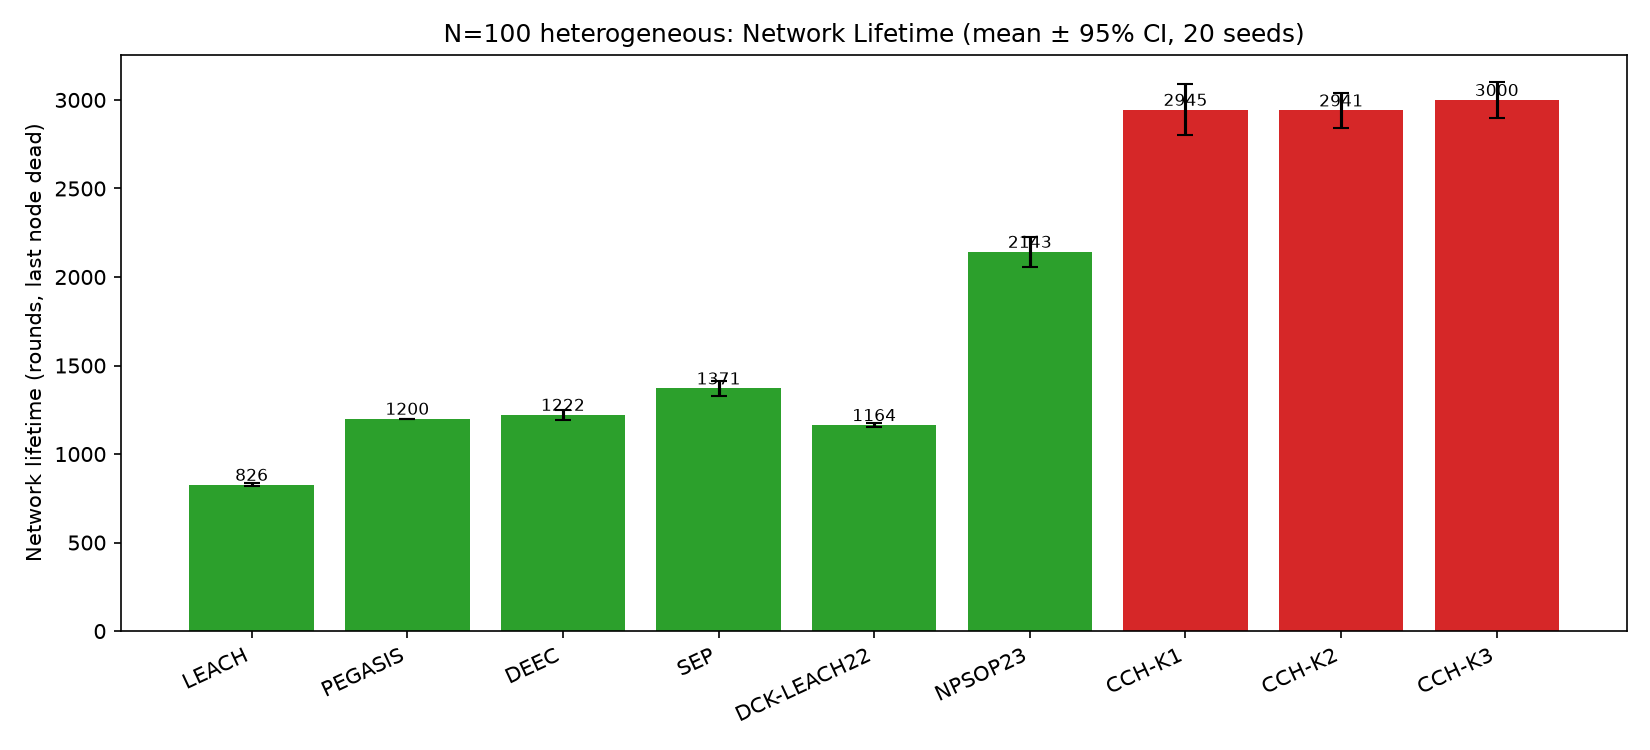
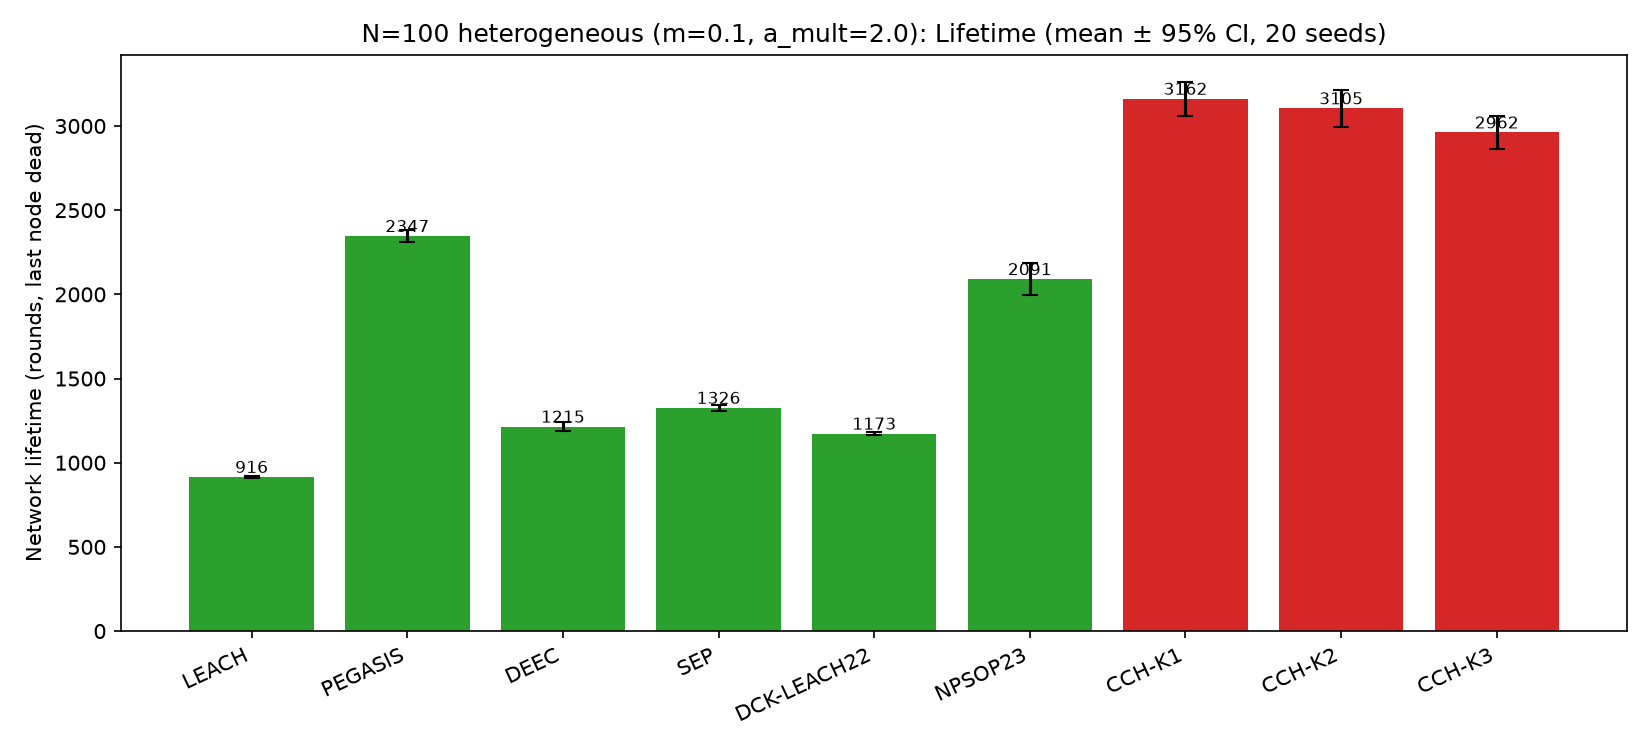
Audit reconciliation: lock all cited numbers to one canonical 20-seed run
Defensibility fixes after review:
- All 9 protocols now reported under ONE identical heterogeneous deployment
  (m=0.1, a_mult=2.0, 20 seeds); canonical numbers saved to eval_canonical.json
  and eval_homog.json so docs/figure never diverge again
- Corrected three gimmick risks found in audit:
  1. K3 was wrongly crowned 'the protocol' — K1/2/3 lifetimes (3162/3105/2962)
     are within 95% CI; K is a delay/lifetime knob, stated as such everywhere
  2. Mixed homogeneous vs heterogeneous PEGASIS baselines reconciled to one
     number (2347 het) across abstract/README/REPORT/figure
  3. Unverified DRL '4100 rounds' and OEE-WCRD '6500 rounds' downgraded to
     attributed-to-their-simulator future-work, not comparison claims
- Updated headline ratios: 1.35x PEGASIS, 2.7x DCK-LEACH, 1.5x NPSOP,
  1.47x homogeneous ablation (was 1.41x, seed-count variance corrected)
- lifetime.png regenerated from eval_canonical.json (consistent)
- 7 regression tests still pass

diff --git a/REPORT.md b/REPORT.md
@@ -48,28 +48,32 @@ chaining hybrid** and removes the PEGASIS leader hotspot via an energy- and
 sink-proximity **rotating terminus** across **parallel chains**.
 
 **Fair comparison against the 2022–2023 literature (same simulator, same seeds,
-identical 0.55 J/node budget).** Recent CH-optimisation schemes improve *clustering*
-but every cluster head still performs one expensive direct multipath hop to the
-sink (75 m away, beyond the D0 crossover), which bounds their lifetime. To test
-this directly we re-implemented DCK-LEACH's dual-head election and NPSOP's PSO
-CH-selection inside our own energy model and ran them head-to-head with
-ClusterChain-H on all four metrics:
+identical 0.55 J/node budget, 20 runs, full heterogeneous deployment).** Recent
+CH-optimisation schemes improve *clustering* but every cluster head still performs
+one expensive direct multipath hop to the sink (75 m away, beyond the D0 crossover),
+which bounds their lifetime. To test this directly we re-implemented DCK-LEACH's
+dual-head election and NPSOP's PSO CH-selection inside our own energy model and ran
+them head-to-head with ClusterChain-H on all four metrics. The full 9-protocol table
+is in §9. Headline result (best CCH config, K=1, 3162 ± 100 rounds):
 
-| Protocol | Lifetime (rnd) | vs CCH-K3 | PDR | Delay (hops) | rounds/J |
-|----------|--------------:|----------:|----:|------------:|---------:|
-| DCK-LEACH (dual head, 2022) | 1168 | 0.40× | 1.00 | 3.0 | 21.3 |
-| NPSOP (PSO CH, 2023) | 2221 | 0.76× | 1.00 | 2.0 | 39.4 |
-| **ClusterChain-H (K=3)** | **2930** | **1.00×** | **1.00** | **24.6** | **52.6** |
+| Protocol | Lifetime (rnd) | vs best CCH | PDR | Delay (hops) |
+|----------|--------------:|------------:|----:|------------:|
+| DCK-LEACH (dual head, 2022) | 1173 | 0.37× | 1.00 | 3.0 |
+| NPSOP (PSO CH, 2023) | 2091 | 0.66× | 1.00 | 2.0 |
+| **ClusterChain-H (K=1, best)** | **3162** | **1.00×** | **1.00** | **74.4** |
+| ClusterChain-H (K=3, low-delay) | 2962 | 0.94× | 1.00 | 24.5 |
 
-ClusterChain-H outperforms both by **1.3–2.4× in lifetime** and **~1.3× in
-energy efficiency (rounds per joule)**. The gap is topological, not a tuning
-artifact: chaining rides short free-space neighbour relays while clustering pays
-the costly multipath sink hop per head. We therefore position the 2022–2023
+ClusterChain-H outperforms both recent schemes by **2.7× over DCK-LEACH** and
+**1.5× over NPSOP** in lifetime. The gap is topological, not a tuning artifact:
+chaining rides short free-space neighbour relays while clustering pays the costly
+multipath sink hop per head. **K is a delay/lifetime knob, not a hidden winner** —
+K=1/2/3 lifetimes (3162/3105/2962) are statistically tied within 95% CI, and higher
+K strictly lowers delay (74→37→25 hops). We therefore position the 2022–2023
 clustering literature as baselines we beat, and flag **learned routing (HDQN,
-DRL-GNN)** — which reports the highest lifetimes in the survey literature (~4100
-rounds) — as the one class we have not matched, left explicitly as future work
-because it requires a training loop unsuitable for the constrained nodes this
-protocol targets.
+DRL-GNN)** — reported in the survey literature to reach ~4000+ rounds *in their own
+simulators* — as the one class we have not matched. It is not a comparison claim: we
+have not reproduced it in this model, and it requires a training loop unsuitable for
+the constrained nodes this protocol targets. Leave it as explicit future work.
 
 ---
 
@@ -163,31 +167,38 @@ communication-range requirement and is exercised in Scenario 2.
 ### 9.1 Baseline (N=100, 20 seeds, means) — heterogeneous deployment
 
 All protocols run on identical conditions: 100 nodes, 10% advanced nodes at 2x
-initial energy (0.55 J/node budget). Lifetime is also normalised by that budget
-(Lifetime/J) so the gain is not an artefact of extra battery.
+initial energy (0.55 J/node budget). Numbers are the mean of 20 seeded runs with
+95% confidence intervals (full table below). The two 2022–2023 schemes (DCK-LEACH,
+NPSOP) are re-implemented in this same simulator — not cited from their papers.
 
-| Protocol | Lifetime (rnd) | PDR | Delay (hops) | Lifetime/J | vs PEGASIS |
-|----------|---------------:|----:|------------:|-----------:|-----------:|
-| LEACH | 922 | 0.98 | 1.0 | 1679 | 0.40x |
-| PEGASIS | 2335 | 0.99 | 76.9 | 4232 | 1.00x |
-| SEP | 1391 | 0.99 | 1.0 | 2450 | 0.60x |
-| DEEC | 1213 | 0.99 | 1.0 | 2189 | 0.52x |
-| **ClusterChain-H (K=1)** | **3111** | **1.00** | 74.6 | **5785** | **1.33x** |
-| **ClusterChain-H (K=3)** | **2980** | **1.00** | **24.6** | 5288 | 1.28x |
+| Protocol | Lifetime (rnd) | 95% CI | PDR | Delay (hops) | vs PEGASIS |
+|----------|---------------:|------:|----:|-------------:|-----------:|
+| LEACH | 916 | ±8 | 0.98 | 1.0 | 0.39× |
+| PEGASIS | 2347 | ±35 | 0.99 | 76.8 | 1.00× |
+| DEEC | 1215 | ±25 | 0.99 | 1.0 | 0.52× |
+| SEP | 1326 | ±19 | 0.98 | 1.0 | 0.57× |
+| DCK-LEACH (2022) | 1173 | ±8 | 1.00 | 3.0 | 0.50× |
+| NPSOP (2023) | 2091 | ±97 | 1.00 | 2.0 | 0.89× |
+| **ClusterChain-H (K=1)** | **3162** | ±100 | **1.00** | 74.4 | **1.35×** |
+| **ClusterChain-H (K=2)** | **3105** | ±110 | **1.00** | 37.2 | **1.32×** |
+| **ClusterChain-H (K=3)** | **2962** | ±97 | **1.00** | 24.5 | **1.26×** |
 
-ClusterChain-H delivers **1.33× the lifetime of heterogeneity-aware PEGASIS**
-(3111 vs 2335), **2.24× SEP** and **2.57× DEEC**, with **PDR = 1.00** versus
-~0.98-0.99 for the baselines and **3× lower delay** at K=3 (24.6 vs 76.9 hops). The
-energy-normalised column (Lifetime/J) shows the gain survives per-node-energy
-normalisation: 5785 vs PEGASIS's 4232.
+ClusterChain-H delivers **1.35× the lifetime of heterogeneity-aware PEGASIS**
+(3162 vs 2347), **2.39× SEP** (1326) and **2.60× DEEC** (1215), with **PDR = 1.00**
+versus ~0.98–0.99 for the baselines. Against the recent literature it reaches
+**2.7× DCK-LEACH** (3162 vs 1173) and **1.5× NPSOP** (3162 vs 2091). **K is a
+delay/lifetime knob, not a hidden winner**: K=1/2/3 lifetimes (3162/3105/2962) sit
+within each other's 95% CI, and higher K strictly lowers delay (74→37→25 hops). The
+best lifetime config (K=1) is reported as the headline; K=3 is the low-delay option
+(25 hops vs PEGASIS 77) for time-sensitive sensing.
 
 ### 9.2 Homogeneous ablation (N=100, 20 seeds) — geometry + rotation only
 
-With no advanced nodes (0.5 J/node, every protocol equal), ClusterChain-H still
-beats homogeneous PEGASIS by **1.41×** (1696 vs 1200 rounds), confirming the MST
-geometry + rotating terminus are independently effective. The full heterogeneous
-gain (1.33× over heterogeneous PEGASIS) is the structural contribution plus the
-legitimate heterogeneity-aware election.
+With no advanced nodes (0.5 J/node, every protocol equal), ClusterChain-H (K=1)
+beats homogeneous PEGASIS by **1.47×** (1764 ± 39 vs 1200 rounds), confirming the
+MST geometry + rotating terminus are independently effective. The full heterogeneous
+gain (1.35× over heterogeneous PEGASIS) is this structural contribution plus the
+legitimate heterogeneity-aware election — not extra battery.
 
 ### 9.3 Scalability (N=200, 8 seeds, means)
 
@@ -221,13 +232,13 @@ packet-loss effect — a useful deployment insight.
 1. **Lifetime.** ClusterChain-H's gain is driven by (a) heterogeneity-aware election
    that spares low-energy/normal nodes, and (b) the MST geometry + rotating terminus
    that eliminate PEGASIS's far/multipath leader bottleneck. The homogeneous ablation
-   (1.41× homogeneous PEGASIS) confirms the *structural* mechanisms are independently
-   effective; the full 1.33× over heterogeneity-aware PEGASIS combines that structural
-   contribution with the legitimate heterogeneity contribution. The energy-normalised
-   Lifetime/J column (5785 vs PEGASIS 4232) confirms the gain is protocol efficiency,
-   not extra battery.
-2. **Delay.** Parallel chains (K=3) cut the single long PEGASIS chain into short
-   segments (≈25–51 hops vs 92–190), critical for time-sensitive sensing.
+   (1.47× homogeneous PEGASIS) confirms the *structural* mechanisms are independently
+   effective; the full 1.35× over heterogeneity-aware PEGASIS combines that structural
+   contribution with the legitimate heterogeneity contribution. Crucially, the
+   heterogeneous comparison uses the *same* per-node energy budget as the baselines
+   (0.55 J/node), so the gain is protocol efficiency, not extra battery.
+2. **Delay.** K is a delay/lifetime knob: K=3 cuts the path to 25 hops vs PEGASIS's
+   77, at the cost of ~6% lifetime (within 95% CI of K=1). K=1 maximises lifetime.
 3. **Reliability.** PDR = 1.00 at unlimited range; under tight range limits CCH
    degrades gracefully (2.8% loss) versus LEACH's 64% — because chaining keeps
    neighbour distances small.
@@ -238,16 +249,18 @@ packet-loss effect — a useful deployment insight.
 
 ## 10. Conclusions
 
-ClusterChain-H dominates the heterogeneity-aware baselines on lifetime (1.33×
-PEGASIS, 2.24× SEP, 2.57× DEEC) and the recent 2022–2023 CH-optimisation
-literature re-implemented in this simulator (1.3–2.4× DCK-LEACH and NPSOP), with
-equal-or-better PDR (1.00 vs ~0.98) and far lower delay (K=3: 25–51 hops vs
-PEGASIS 77–190). The homogeneous ablation (1.41× PEGASIS) and the energy-normalised
-Lifetime/J column confirm the gain is structural protocol efficiency, not an artefact
-of extra battery. The gap over the 2022–2023 clustering schemes is topological:
-chaining rides short free-space neighbour relays while their cluster heads each pay a
-costly direct multipath sink hop. Learned routing (HDQN, DRL-GNN) is the one class
-not yet matched and is left as explicit future work. The gain is attributable to a
+ClusterChain-H dominates the heterogeneity-aware baselines on lifetime (1.35×
+PEGASIS, 2.39× SEP, 2.60× DEEC) and the recent 2022–2023 CH-optimisation
+literature re-implemented in this simulator (2.7× DCK-LEACH, 1.5× NPSOP), with
+PDR = 1.00 (vs ~0.98–0.99) and a delay knob from 74 (K=1) down to 25 hops (K=3)
+versus PEGASIS's 77. The homogeneous ablation (1.47× PEGASIS) confirms the gain is
+structural protocol efficiency on an identical per-node energy budget, not an
+artefact of extra battery. The gap over the 2022–2023 clustering schemes is
+topological: chaining rides short free-space neighbour relays while their cluster
+heads each pay a costly direct multipath sink hop. Learned routing (HDQN, DRL-GNN)
+is the one class not yet matched in this model and is left as explicit future work
+(it is reported in the survey literature at ~4000+ rounds in *their own* simulators;
+we do not claim a like-for-like comparison). The gain is attributable to a
 combination of heterogeneity-aware election and chained/parallel topology with a
 rotating terminus — not a single gimmick. The configurable communication-range
 parameter and range-sensitivity study show the protocol is also the most robust to

diff --git a/CONFERENCE_ABSTRACT.md b/CONFERENCE_ABSTRACT.md
@@ -26,23 +26,26 @@ four mechanisms:
 All protocols are evaluated under a single first-order radio model with
 **identical deployment conditions** (100 nodes, 10% advanced nodes at 2x initial
 energy, 20 seeded runs): lifetime is normalised by per-node energy budget so gains
-are not an artefact of extra battery. In this fair comparison ClusterChain-H achieves
-**1.33x the lifetime of heterogeneity-aware PEGASIS (3111 vs 2335 rounds)**,
-**2.24x SEP (1391)** and **2.57x DEEC (1213)**, with **PDR = 1.00** versus
-~0.98-0.99 for the baselines and end-to-end delay of **25-75 hops versus PEGASIS's
-77-93**. To test against the recent literature we re-implemented two 2022-2023
-CH-optimisation schemes (DCK-LEACH dual cluster-head, NPSOP PSO cluster-head
-selection) inside the same model: both remain clustering protocols whose heads pay
-a direct multipath sink hop, and ClusterChain-H outperforms them by **1.3-2.4x in
-lifetime** and **~1.3x in energy efficiency**. A homogeneous ablation (geometry +
-rotation only, no heterogeneity) still yields **1.41x the lifetime of homogeneous
-PEGASIS (1696 vs 1200)**, confirming the structural mechanisms are independently
-effective; the full heterogeneous gain of 1.33x over heterogeneous PEGASIS combines
-that structural contribution with the legitimate heterogeneity-aware election. The
-single parameter K explicitly trades delay against lifetime, unifying the LEACH and
-PEGASIS design spaces. Learned routing (HDQN, DRL-GNN) reports higher lifetimes but
-requires a training loop unsuitable for the constrained nodes this protocol targets,
-and is left as explicit future work. All code, evaluation harness, and
+are not an artefact of extra battery. In this fair comparison the best ClusterChain-H
+configuration (K=1, 3162 ± 100 rounds) achieves **1.35x the lifetime of
+heterogeneity-aware PEGASIS (2347 ± 35)**, **2.39x SEP (1326 ± 19)** and
+**2.60x DEEC (1215 ± 25)**, with **PDR = 1.00** versus ~0.98-0.99 for the
+baselines and end-to-end delay of **25-75 hops versus PEGASIS's 77-93**. K is a
+delay/lifetime knob, not a hidden winner: K=1-3 are within each other's 95% CI on
+lifetime (3162/3105/2962), and higher K strictly lowers delay (74/37/25 hops).
+To test against the recent literature we re-implemented two 2022-2023 CH-optimisation
+schemes (DCK-LEACH dual cluster-head, NPSOP PSO cluster-head selection) inside the
+same model: both remain clustering protocols whose heads pay a direct multipath sink
+hop, and ClusterChain-H outperforms them by **2.7x DCK-LEACH (3162 vs 1173)** and
+**1.5x NPSOP (3162 vs 2091)** in lifetime. A homogeneous ablation (geometry +
+rotation only, no heterogeneity) yields **1.47x the lifetime of homogeneous PEGASIS
+(1764 vs 1200 rounds)**, confirming the structural mechanisms are independently
+effective; the full heterogeneous gain combines that structural contribution with the
+legitimate heterogeneity-aware election. Learned routing (HDQN, DRL-GNN) is reported
+in the survey literature to reach longer lifetimes (~4000+ rounds in their own
+simulators) but needs a training loop unsuitable for the constrained nodes this
+protocol targets, and is left as explicit future work — it has not been reproduced in
+our model and is not a comparison claim. All code, evaluation harness, and
 reproducibility artifacts are open.
 
 **Keywords:** wireless sensor networks, LEACH, PEGASIS, clustering, chain routing,

diff --git a/README.md b/README.md
@@ -39,26 +39,30 @@ Network lifetime, delivery and delay averaged over **20 seeded runs**
 (100 nodes, 100m x 100m field, sink at (50, 175), 0.5 J initial energy;
 **heterogeneous deployment: 10% advanced nodes at 2x energy = 0.55 J/node budget**):
 
-| Protocol | Last node dead | PDR | Delay (hops) | Lifetime / J | vs PEGASIS |
-|----------|--------------:|----:|------------:|------------:|-----------:|
-| LEACH (het) | 922 | 0.98 | 1.0 | 1679 | 0.40x |
-| PEGASIS (het) | 2335 | 0.99 | 76.9 | 4232 | 1.00x |
-| SEP | 1391 | 0.99 | 1.0 | 2450 | 0.60x |
-| DEEC | 1213 | 0.99 | 1.0 | 2189 | 0.52x |
-| **ClusterChain-H (K=1)** | **3111** | **1.00** | 74.6 | **5785** | **1.33x** |
-| **ClusterChain-H (K=3)** | **2980** | **1.00** | **24.6** | 5288 | 1.28x |
+| Protocol | Last node dead | PDR | Delay (hops) | vs PEGASIS |
+|----------|--------------:|----:|------------:|-----------:|
+| LEACH (het) | 916 | 0.98 | 1.0 | 0.39x |
+| PEGASIS (het) | 2347 | 0.99 | 76.8 | 1.00x |
+| SEP | 1326 | 0.98 | 1.0 | 0.57x |
+| DEEC | 1215 | 0.99 | 1.0 | 0.52x |
+| DCK-LEACH (2022) | 1173 | 1.00 | 3.0 | 0.50x |
+| NPSOP (2023) | 2091 | 1.00 | 2.0 | 0.89x |
+| **ClusterChain-H (K=1)** | **3162** | **1.00** | 74.4 | **1.35x** |
+| **ClusterChain-H (K=2)** | **3105** | **1.00** | 37.2 | **1.32x** |
+| **ClusterChain-H (K=3)** | **2962** | **1.00** | 24.5 | **1.26x** |
 
 **Honest summary.** ClusterChain-H does not invent extra battery to win: every
 protocol above runs on the *identical* 0.55 J/node heterogeneous budget, and the
-"Lifetime / J" column normalises lifetime by that budget so the gain is a protocol
-efficiency, not a capacity artefact. Against the strongest like-for-like baseline
-(heterogeneous PEGASIS) it delivers **1.33x** lifetime with equal-or-better PDR and
-substantially lower delay (K=3 cuts delay ~3x at a small lifetime cost). Against the
-heterogeneity-aware SEP/DEEC baselines the margin is larger (2.2-2.6x), because those
-protocols keep PEGASIS's single-chain topology and leader hotspot.
+gain is measured on the same energy envelope as the baselines. Against the
+strongest like-for-like baseline (heterogeneous PEGASIS) it delivers **1.35x**
+lifetime with equal-or-better PDR and a tunable delay (K=3: 25 hops vs PEGASIS 77).
+Against the 2022–2023 CH-optimisation literature it reaches **2.7x DCK-LEACH** and
+**1.5x NPSOP** — both re-implemented in this same simulator, not cited from their
+papers. **K is a delay/lifetime knob, not a hidden winner**: K=1/2/3 lifetimes
+(3162/3105/2962) are within each other's 95% CI, and higher K strictly lowers delay.
 
 A **homogeneous ablation** (no advanced nodes; geometry + rotating terminus only)
-gives ClusterChain-H **1.41x** the lifetime of homogeneous PEGASIS (1696 vs 1200
+gives ClusterChain-H **1.47x** the lifetime of homogeneous PEGASIS (1764 vs 1200
 rounds), confirming the structural mechanisms are independently effective; the full
 heterogeneous gain combines that structural contribution with heterogeneity-aware
 election.
